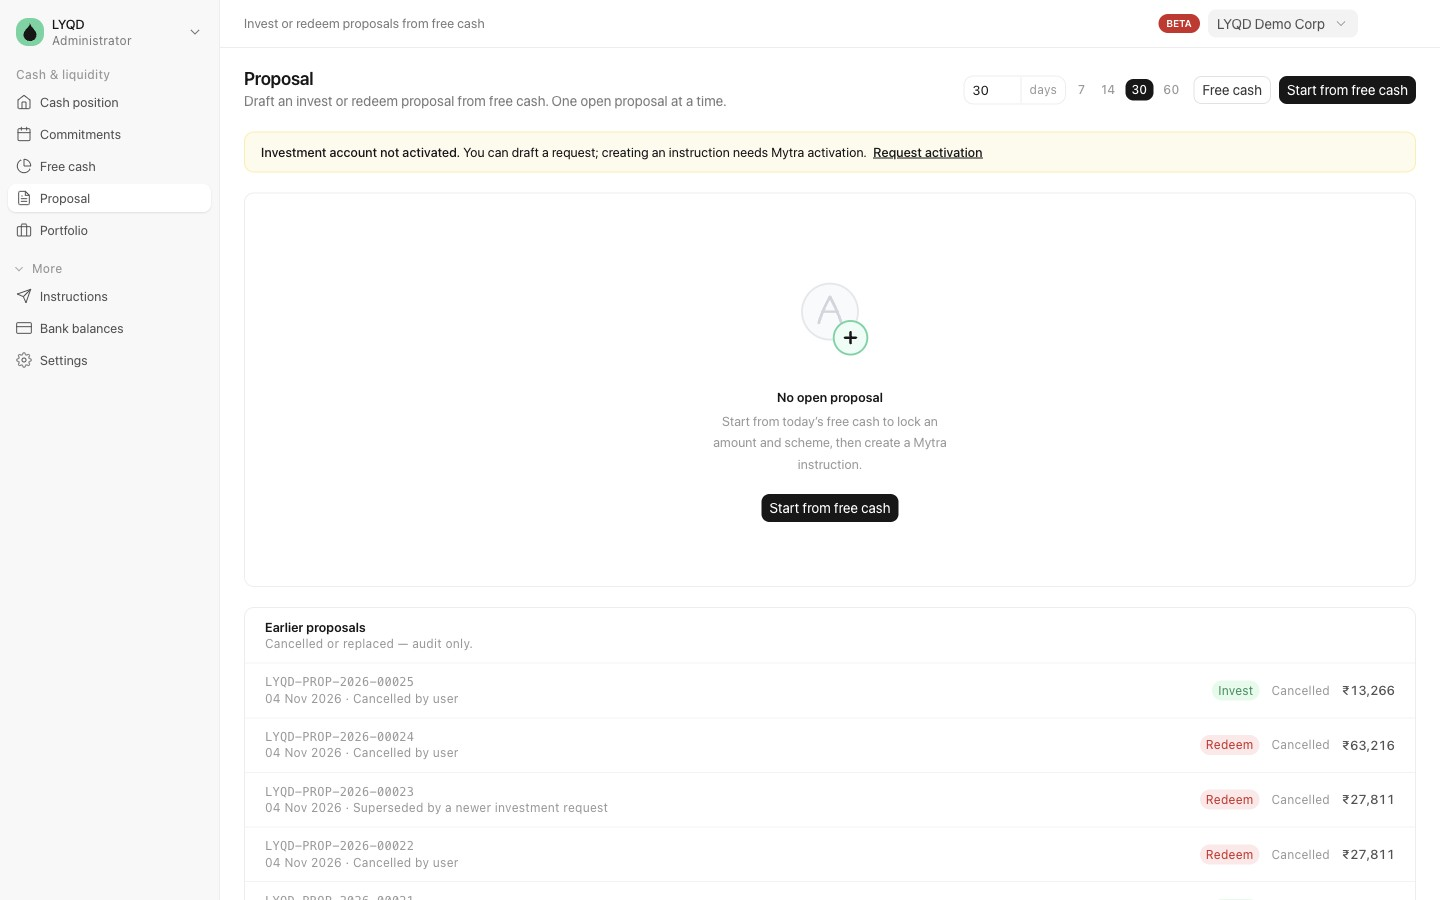
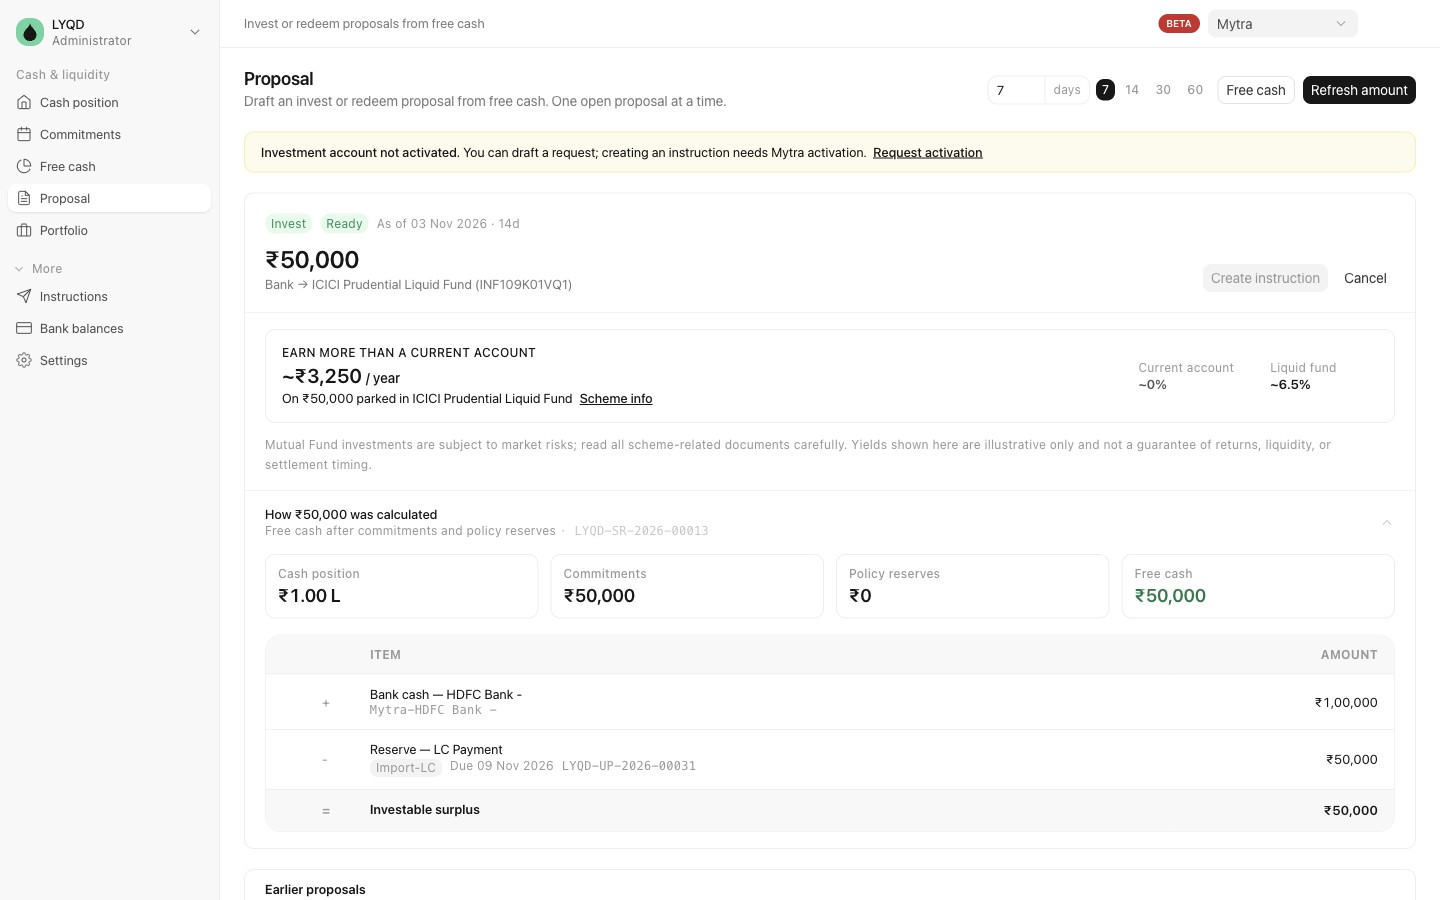
Refresh Settings and Proposal README screenshots.
Use pwctech for ERPNext Integrations and Mytra for the Proposal screen.

diff --git a/README.md b/README.md
@@ -14,7 +14,7 @@
 
 ![Cash position](docs/screenshots/cash-position.jpg)
 
-*Screenshots below are from the **LYQD Demo Corp** company (full-width desktop).*
+*Screenshots are full-width desktop captures: mostly **LYQD Demo Corp**, with Settings (ERPNext) from **pwctech** and Proposal from **Mytra**.*
 
 LYQD helps finance teams see bank cash, upcoming payments, and free cash in one place — then create an **Invest** or **Redeem** proposal when they’re ready.
 
